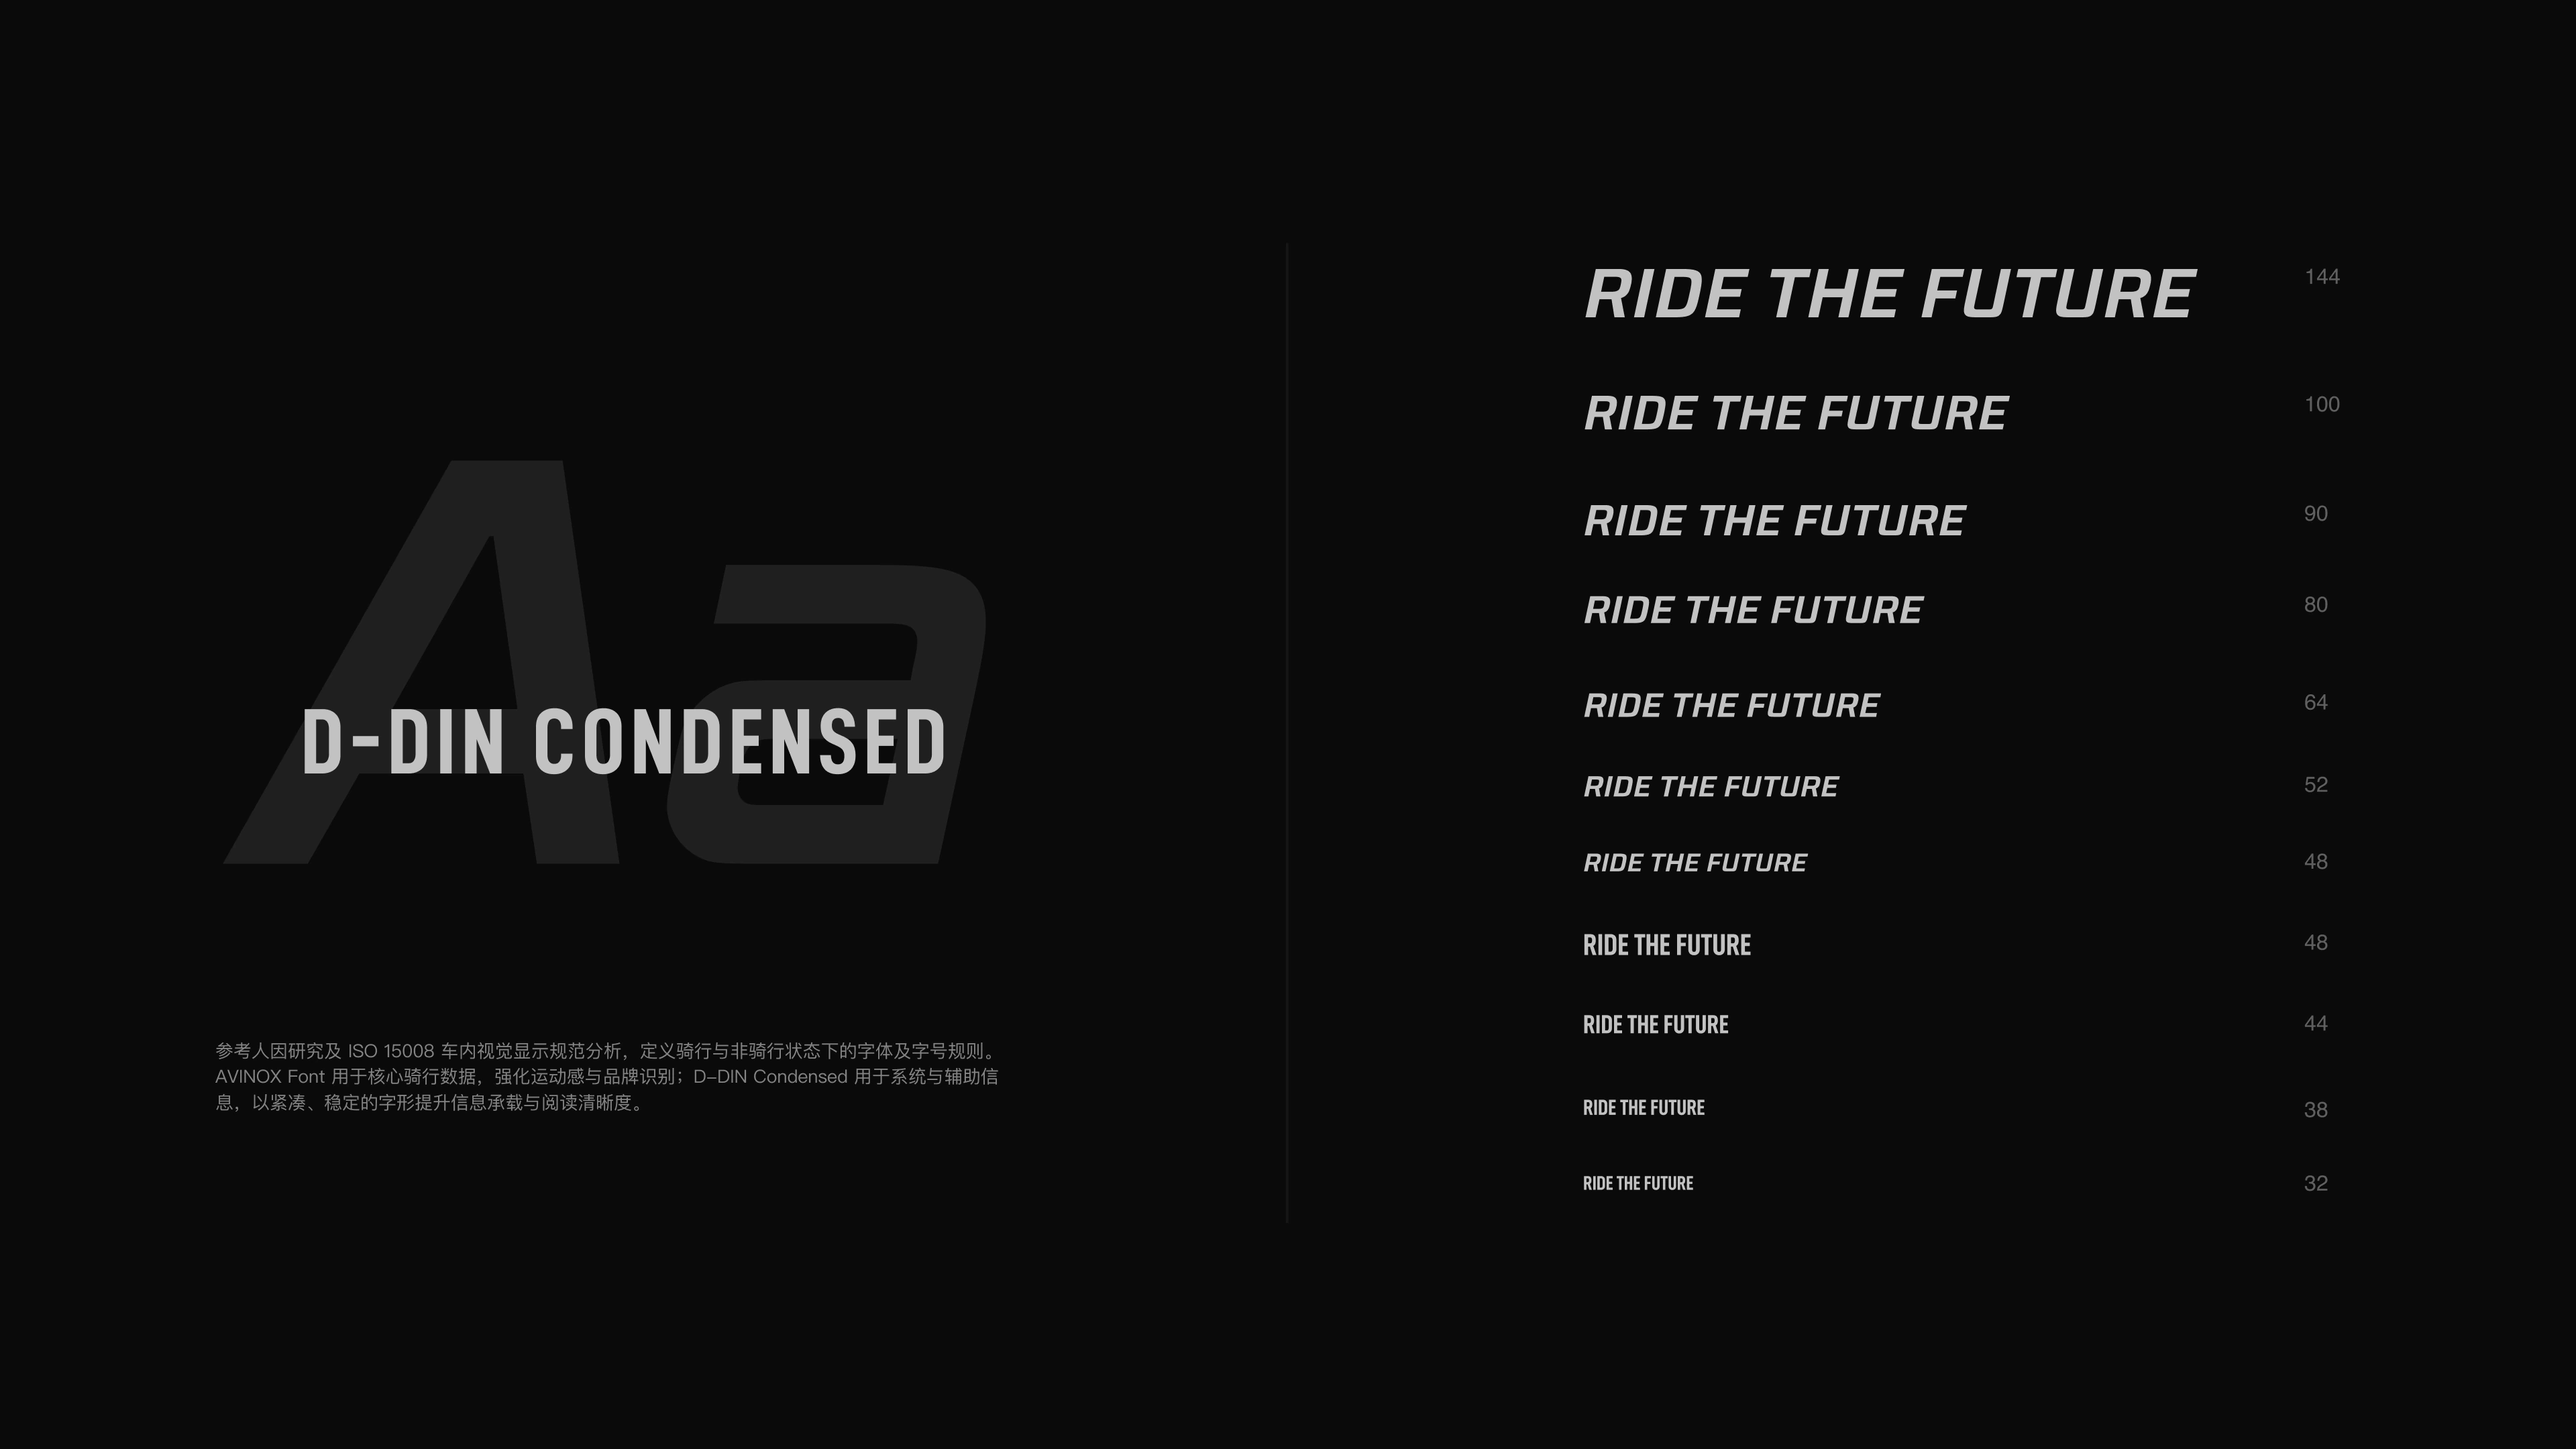
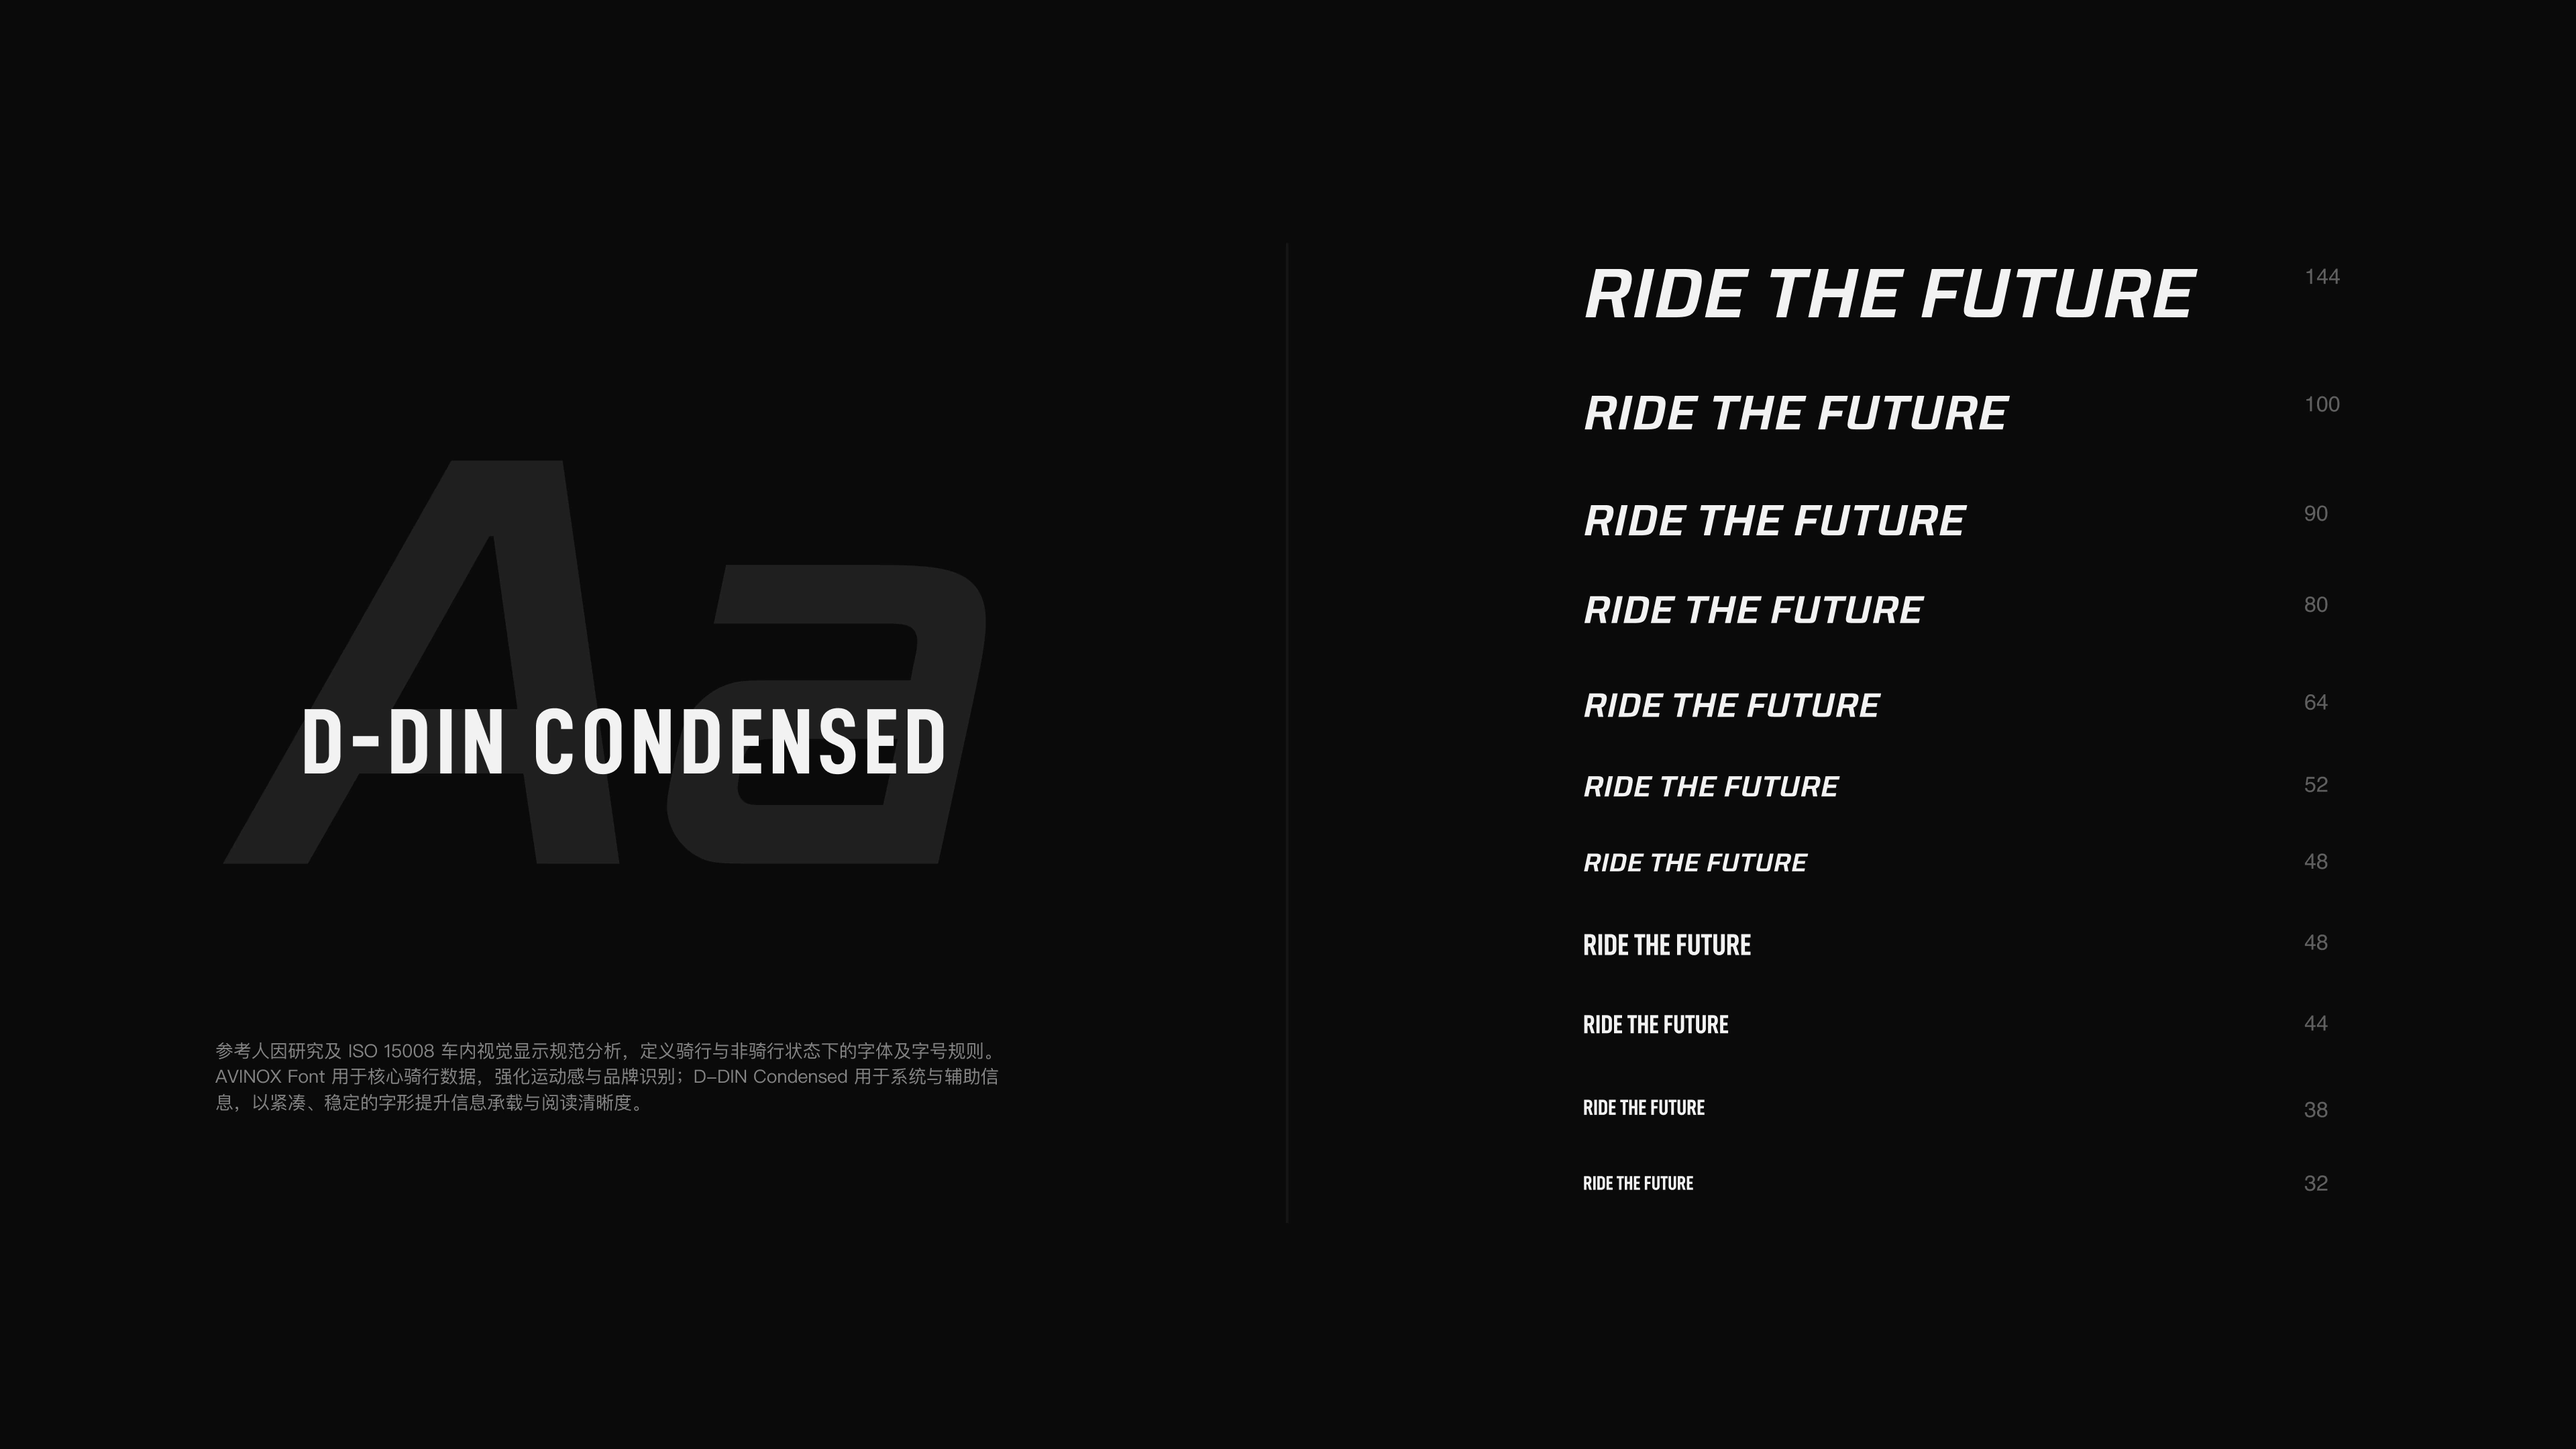
Fix responsive case media loading

diff --git a/app/project-opening.ts b/app/project-opening.ts
@@ -85,8 +85,8 @@ function mediaUrl(folder: string, slot: number, ext: 'webp' | 'mp4', version: st
   return `/media/${folder}/${pad2(slot)}.${ext}?v=${version}`;
 }
 
-function posterUrl(folder: string, slot: number) {
-  return `/media/${folder}/posters/${pad2(slot)}.jpg`;
+function posterUrl(folder: string, slot: number, version: string) {
+  return `/media/${folder}/posters/${pad2(slot)}.jpg?v=${version}`;
 }
 
 export type CaseMediaItem = {
@@ -98,18 +98,19 @@ export type CaseMediaItem = {
 
 function itemForSlot(catalog: CaseCatalog, slot: number): CaseMediaItem | null {
   if (slot < 1 || slot > catalog.maxSlot) return null;
+  const version = catalog.slug === 'dji-avinox' && slot === 8 ? '20261008-avinox-08' : catalog.version;
   if (catalog.videoSlots.has(slot)) {
     return {
       slot,
       kind: 'video',
-      url: mediaUrl(catalog.folder, slot, 'mp4', catalog.version),
-      poster: posterUrl(catalog.folder, slot),
+      url: mediaUrl(catalog.folder, slot, 'mp4', version),
+      poster: posterUrl(catalog.folder, slot, version),
     };
   }
   return {
     slot,
     kind: 'image',
-    url: mediaUrl(catalog.folder, slot, 'webp', catalog.version),
+    url: mediaUrl(catalog.folder, slot, 'webp', version),
   };
 }
 
@@ -157,6 +158,7 @@ export const openingPacks: Record<ProjectSlug, OpeningPack> = {
 };
 
 const warmed = new Set<string>();
+const warmingImages = new Map<string, Promise<void>>();
 const warming = new Map<string, Promise<void>>();
 const lookaheadWarming = new Map<string, Promise<void>>();
 let prefetchGate: Promise<void> = Promise.resolve();
@@ -181,13 +183,24 @@ export function nextProjectSlug(slug: string) {
 }
 
 function warmImage(url: string) {
-  return new Promise<void>((resolve) => {
+  const key = mediaKey(url);
+  if (warmed.has(key)) return Promise.resolve();
+  const existing = warmingImages.get(key);
+  if (existing) return existing;
+
+  const task = new Promise<void>((resolve) => {
     const image = new Image();
     image.decoding = 'async';
-    image.onload = () => resolve();
+    image.onload = () => {
+      warmed.add(key);
+      resolve();
+    };
     image.onerror = () => resolve();
     image.src = url;
   });
+  warmingImages.set(key, task);
+  void task.finally(() => warmingImages.delete(key));
+  return task;
 }
 
 async function warmVideo(url: string) {
@@ -241,7 +254,7 @@ export function warmOpeningPack(slug: string, prefetchRoute?: (href: string) => 
   const task = (async () => {
     prefetchRoute?.(pack.href);
     for (const poster of pack.posters) await warmUrl(poster, 'poster');
-    for (const image of pack.images) await warmUrl(image, 'image');
+    for (const image of pack.images) await warmUrl(entryImageUrl(image), 'image');
   })().finally(() => {
     warming.delete(slug);
   });
@@ -263,7 +276,7 @@ export async function warmOpeningChain(prefetchRoute?: (href: string) => void, f
 export function openingPackWarmed(slug: string) {
   if (!isProjectSlug(slug)) return false;
   const pack = openingPacks[slug];
-  const urls = [...pack.images, ...pack.posters];
+  const urls = [...pack.images.map(entryImageUrl), ...pack.posters];
   return urls.length > 0 && urls.every((url) => warmed.has(mediaKey(url)));
 }
 
@@ -287,18 +300,15 @@ function entryVideoUrl(desktopUrl: string) {
 
 function loadImageProgress(url: string, onShare: (ratio: number) => void) {
   return new Promise<void>((resolve) => {
-    const image = new Image();
-    image.decoding = 'async';
-    image.onload = () => {
-      onShare(1);
-      warmed.add(mediaKey(url));
-      resolve();
-    };
-    image.onerror = () => {
+    if (warmed.has(mediaKey(url))) {
       onShare(1);
       resolve();
-    };
-    image.src = url;
+      return;
+    }
+    void warmImage(url).then(() => {
+      onShare(1);
+      resolve();
+    });
   });
 }
 

diff --git a/app/work/[slug]/case-still.tsx b/app/work/[slug]/case-still.tsx
@@ -1,13 +1,9 @@
 'use client';
 
-import { useEffect, useLayoutEffect, useRef, useState } from 'react';
-
-function isNarrowViewport() {
-  return typeof window !== 'undefined' && window.matchMedia('(max-width: 800px)').matches;
-}
+import { useEffect, useRef, useState } from 'react';
 
 function pickSrc(src: string, mobileSrc: string | undefined, allowMobile: boolean) {
-  if (allowMobile && mobileSrc && isNarrowViewport()) return mobileSrc;
+  if (allowMobile && mobileSrc && window.matchMedia('(max-width: 800px)').matches) return mobileSrc;
   return src;
 }
 
@@ -48,69 +44,62 @@ export function CaseStill({
 }) {
   const imgRef = useRef<HTMLImageElement | null>(null);
   const allowMobile = Boolean(mobileSrc);
-  const [activeSrc, setActiveSrc] = useState(() => pickSrc(src, mobileSrc, allowMobile));
   const [ready, setReady] = useState(false);
-  const wantRef = useRef(activeSrc);
-  wantRef.current = activeSrc;
-
-  useEffect(() => {
-    const mq = window.matchMedia('(max-width: 800px)');
-    const sync = () => setActiveSrc(pickSrc(src, mobileSrc, allowMobile));
-    sync();
-    mq.addEventListener('change', sync);
-    return () => mq.removeEventListener('change', sync);
-  }, [src, mobileSrc, allowMobile]);
-
-  // Hide before paint when the target file changes — prevents one-frame foreign flash.
-  useLayoutEffect(() => {
-    setReady(false);
-  }, [activeSrc]);
+  const wantRef = useRef(src);
 
   useEffect(() => {
     const node = imgRef.current;
     if (!node) return;
 
-    let cancelled = false;
-
+    const mq = window.matchMedia('(max-width: 800px)');
     const revealIfValid = () => {
-      if (cancelled) return;
       if (!matchesWant(node, wantRef.current)) return;
       if (!node.complete || node.naturalWidth < 2) return;
       setReady(true);
     };
 
-    // Cached decode can skip onLoad.
-    if (node.complete) revealIfValid();
-
+    const sync = (resetReady = false) => {
+      const nextSrc = pickSrc(src, mobileSrc, allowMobile);
+      const changed = nextSrc !== wantRef.current;
+      wantRef.current = nextSrc;
+      if (changed && resetReady) setReady(false);
+      revealIfValid();
+    };
     const onLoad = () => revealIfValid();
     const onError = () => {
       // Stay gray — never reveal a broken/foreign paint.
       setReady(false);
     };
+    const onMediaChange = () => sync(true);
 
     node.addEventListener('load', onLoad);
     node.addEventListener('error', onError);
+    mq.addEventListener('change', onMediaChange);
+    sync();
     return () => {
-      cancelled = true;
       node.removeEventListener('load', onLoad);
       node.removeEventListener('error', onError);
+      mq.removeEventListener('change', onMediaChange);
     };
-  }, [activeSrc]);
+  }, [src, mobileSrc, allowMobile]);
 
   return (
     <span className={`case-still${ready ? ' is-ready' : ''}${lqip ? ' has-lqip' : ''}`}>
       {lqip ? <span className="case-media-lqip" style={{ backgroundImage: `url(${lqip})` }} aria-hidden /> : null}
       {/* Native img — Next/Image cache can paint a foreign bitmap for one frame. */}
-      <img
-        ref={imgRef}
-        src={activeSrc}
-        alt=""
-        sizes={sizes}
-        loading={priority ? 'eager' : 'lazy'}
-        decoding="async"
-        draggable={false}
-        data-pin-nopin="true"
-      />
+      <picture>
+        {allowMobile && mobileSrc ? <source media="(max-width: 800px)" srcSet={mobileSrc} /> : null}
+        <img
+          ref={imgRef}
+          src={src}
+          alt=""
+          sizes={sizes}
+          loading={priority ? 'eager' : 'lazy'}
+          decoding="async"
+          draggable={false}
+          data-pin-nopin="true"
+        />
+      </picture>
       <span className="case-video-mask" aria-hidden />
     </span>
   );

diff --git a/app/work/[slug]/page.tsx b/app/work/[slug]/page.tsx
@@ -85,6 +85,8 @@ function Placeholder({ number, projectSlug, tone = 'dark', showSlotNumber = true
   const size = src ? dimensionMap[src] ?? dimensionMap[src.replace(/\.webp$/, '.jpg')] : undefined;
   const mediaSrc = src === '/media/dji-aura/06.webp'
     ? `${src}?v=20261008-media`
+    : src === '/media/dji-avinox/08.webp'
+    ? `${src}?v=20261008-avinox-08`
     : src && projectSlug === 'dji-power'
     ? `${src}?v=20261008-media`
     : src && projectSlug === 'dji-aura-logo'
